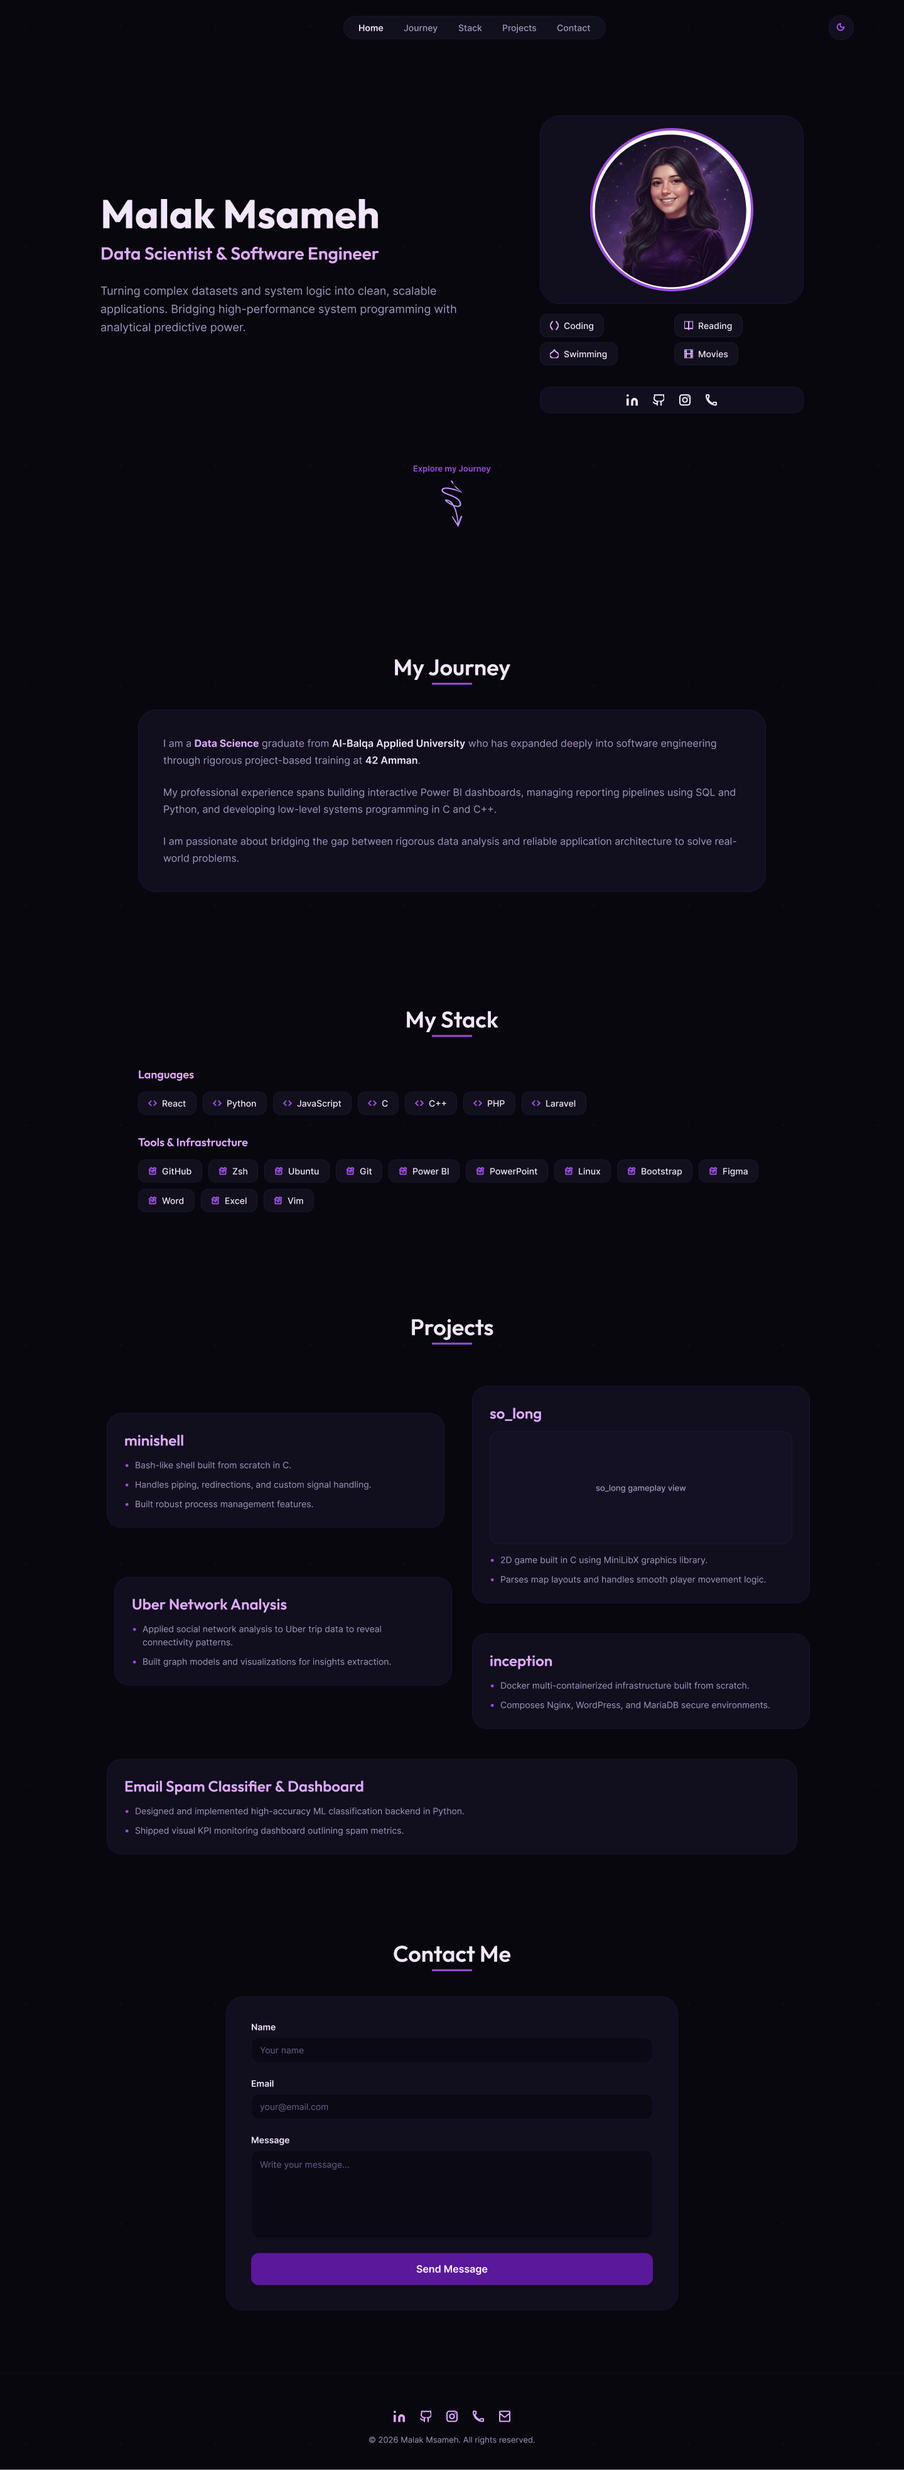
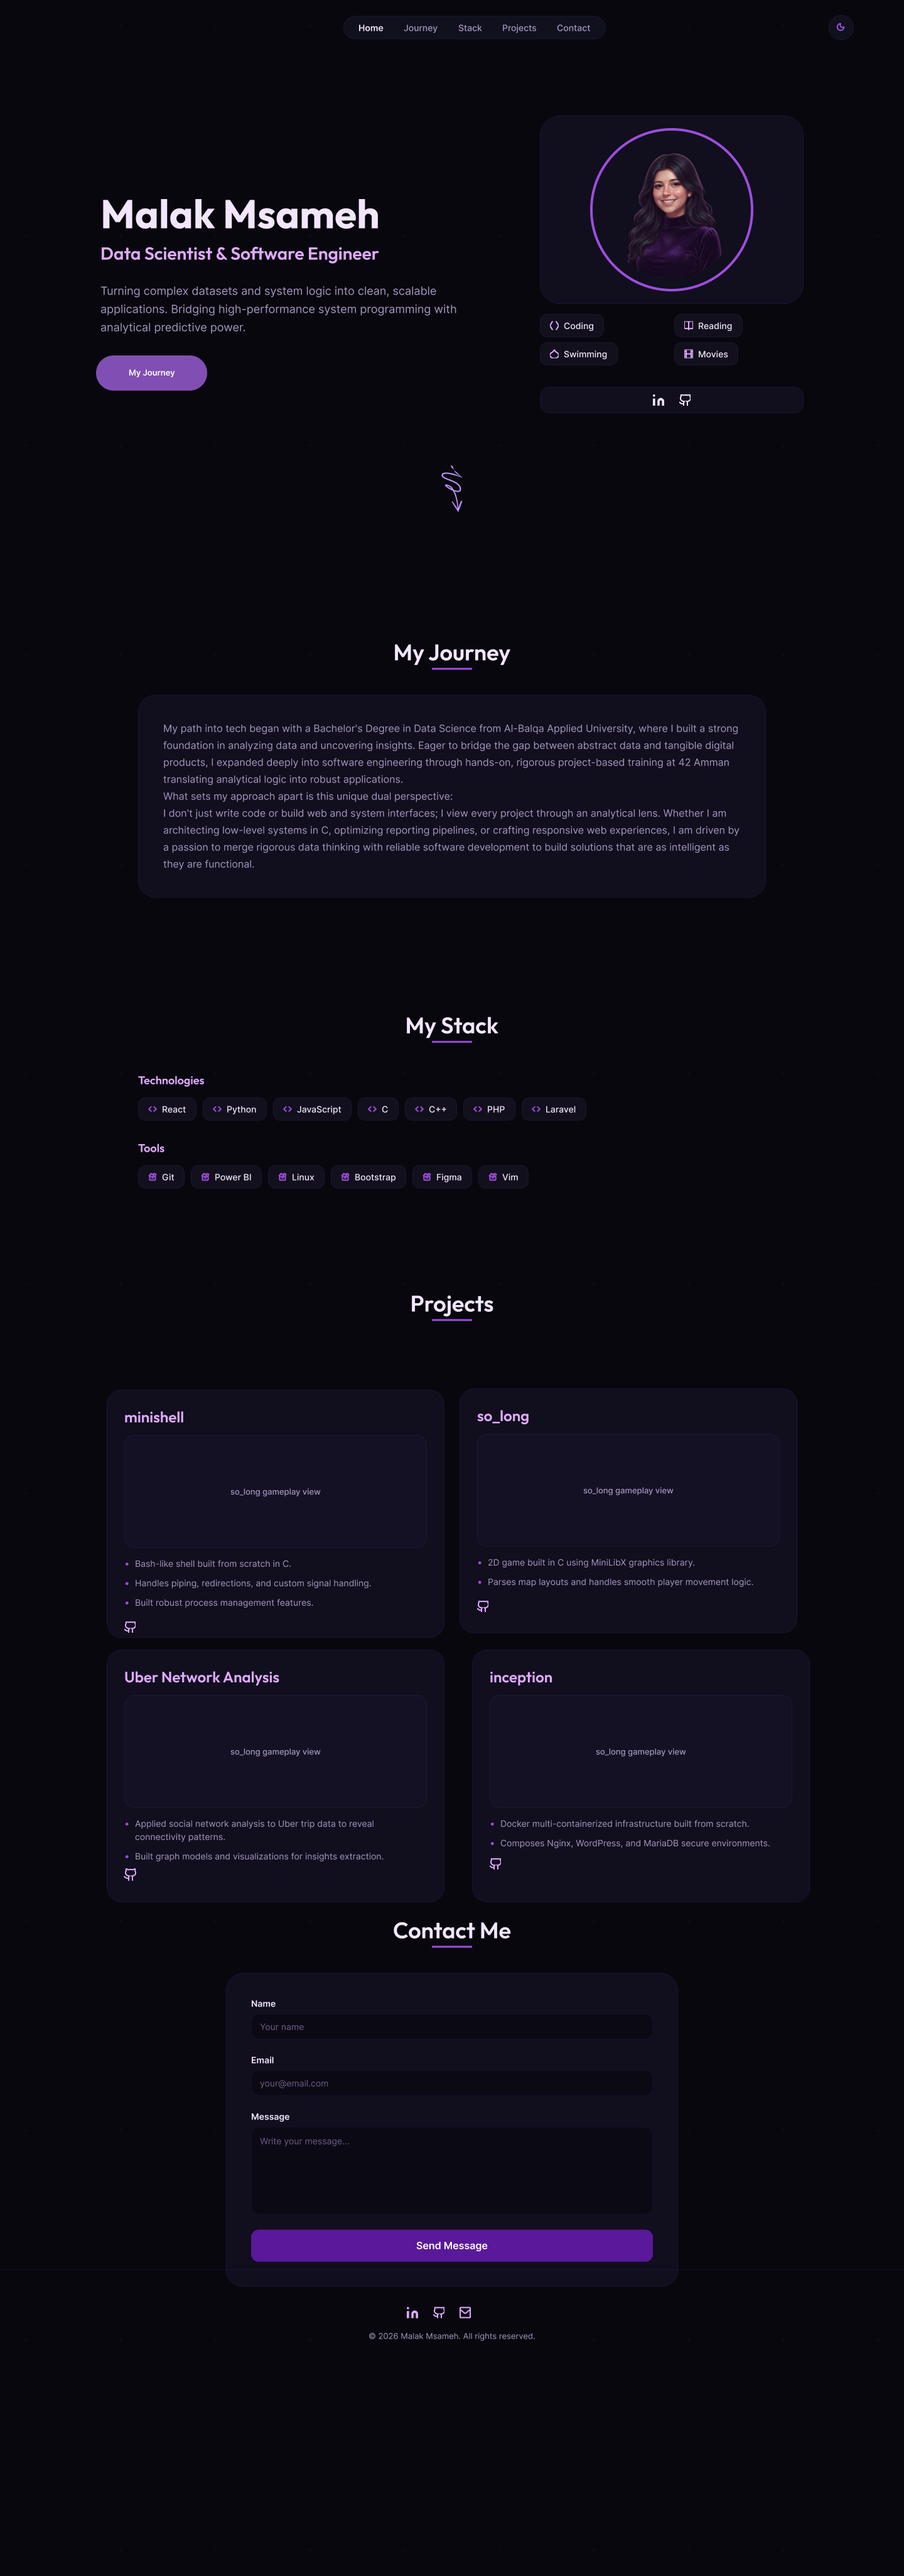
done

diff --git a/test/index.html b/test/index.html
@@ -1,0 +1,381 @@
+<!DOCTYPE html>
+<html lang="en">
+<head>
+	<meta charset="UTF-8">
+	<meta name="viewport" content="width=device-width, initial-scale=1.0">
+	<meta name="description" content="Malak Msameh — Data Scientist and Software Engineer portfolio">
+	<title>My Portfolio</title>
+
+	<link rel="stylesheet" href="style.css">
+	<link rel="stylesheet" href="https://cdnjs.cloudflare.com/ajax/libs/font-awesome/6.4.0/css/all.min.css">
+</head>
+
+<body>
+	<!-- the theme of dark and light mode and to switch between them using checkbox-->
+	<input type="checkbox" id="light-mode" class="theme-checkbox" aria-label="Toggle dark and light mode">
+	<div class="container">
+
+		<!-- header section for the nav bar and the dark / light mode -->
+		<!-- nav bar elements -->
+		<header class="sticky-navbar">
+			<nav class="navbar" aria-label="nav">
+				<a href="#home">Home</a>
+				<a href="#journey">Journey</a>
+				<a href="#stack">Stack</a>
+				<a href="#projects">Projects</a>
+				<a href="#contact">Contact</a>
+			</nav>
+
+			<!-- dark and light mode icons  -->
+			<label for="light-mode" class="light-mode-btn" title="Toggle Light/Dark Mode" aria-label="Toggle Light/Dark Mode">
+				<i class="fa-solid fa-sun sun-icon"></i>
+				<i class="fa-solid fa-moon moon-icon"></i>
+			</label>
+		</header>
+
+		<!-- main section for everything between the header amd the footer -->
+		<main>
+			<!-- Hero section or landing screen => title and avatar card-->
+			<section id="home" class="intro">
+
+				<div class="hero_sectiom">
+
+					<!-- content of the hero section -->
+					<div class="hero-content">
+						<!-- name and title and a bit of a quote -->
+						<h1 class="name">Malak Msameh</h1>
+						<h2 class="profession-title">Data Scientist &amp; Full Stack Developer</h2>
+						<p class="aqout">
+							Turning complex datasets and system logic into clean,
+							scalable applications.
+						</p>
+						<a href="#journey">
+						<button class="my-journy-button">
+							<span class="next">My Journey</span>
+						</button>
+						</a>
+					</div>
+
+
+					<!-- the avatar card section in the landing page or home page -->
+					<div class="hero_avatar">
+						<div class="avatar-container">
+
+							<img src="images/avatar.png" alt="Malak Msameh Portrait" class="avatar-img">
+
+						</div>
+
+						<!-- hobies icones after the avatar card -->
+						<div class="hobbies">
+							<span class="hobby-icon">
+
+								<i class="fa-solid fa-laptop-code"></i>
+								Coding
+							</span>
+
+							<span class="hobby-icon">
+								<i class="fa-solid fa-book"></i>
+								Reading
+							</span>
+
+							<span class="hobby-icon">
+								<i class="fa-solid fa-person-swimming"></i>
+								Swimming
+							</span>
+
+							<span class="hobby-icon">
+								<i class="fa-solid fa-film"></i>
+								Movies
+							</span>
+							
+						</div>
+
+						<!-- social media links -->
+						<div class="social-media-icons">
+							<a href="https://www.linkedin.com/in/malak-msameh/" target="_blank" aria-label="LinkedIn">
+
+								<i class="fa-brands fa-linkedin-in"></i>
+							</a>
+
+							<a href="https://github.com/malakmsameh" target="_blank" aria-label="GitHub">
+								<i class="fa-brands fa-github"></i>
+							</a>
+
+						</div>
+					</div>
+				</div>
+
+				<div class="scroll-centring">
+
+						<!-- the arrow icon and its measurements and the 
+						 xmlns tells the browser that we are using an svg-->
+						<svg
+							class="squiggly-arrow"
+							viewBox="0 0 50 80"
+							xmlns="http://www.w3.org/2000/svg"
+							aria-hidden="true"
+						>
+						<!-- this draws the actual line of the arrow  and its style-->
+							<path
+								d="M35 5 C 10 5, 5 25, 25 30 C 40 35, 10 50, 20 65 M12 55 L22 68 L32 58"
+								fill="none"
+								stroke-width="2.5"
+								stroke-linecap="round"
+								stroke-linejoin="round"
+							/>
+						</svg>
+					</a>
+				</div>
+			</section>
+
+			<!-- my Journey section-->
+			<section id="journey">
+				<h2 class="section-title">My Journey</h2>
+
+				<div class="about-me">
+					<div class="info">
+						<p>
+							My path into tech began with a Bachelor's Degree in Data Science from Al-Balqa Applied University,
+							where I built a strong foundation in analyzing data and uncovering insights.
+							Eager to bridge the gap between abstract data and tangible digital products,
+							I expanded deeply into software engineering through hands-on,
+							rigorous project-based training at 42 Amman translating analytical logic into robust applications.
+
+						</p>
+						<p>
+								What sets my approach apart is this unique dual perspective:
+								<br>I don't just write code or build web and system interfaces;
+								I view every project through an analytical lens.
+								Whether I am architecting low-level systems in C,
+								optimizing reporting pipelines, or crafting responsive web experiences,
+								I am driven by a passion to merge rigorous data thinking with reliable software
+								development to build solutions that are as intelligent as they are functional.
+						</p>
+					</div>
+			</div>
+		</section>
+
+		<!-- my Stack section -->
+		<section id="stack">
+		<h2 class="section-title">My Stack</h2>
+
+		<div class="stack-category">
+			<h3>Technologies</h3>
+
+			<!-- all the icons for the languages -->
+			<div class="stack-badge">
+			<span class="tech-badge">
+				<i class="fa-brands fa-react">
+
+				</i>
+				React
+			</span>
+			<span class="tech-badge">
+				<i class="fa-brands fa-python">
+
+				</i>
+				Python
+			</span>
+			<span class="tech-badge">
+				<i class="fa-brands fa-js">
+
+				</i>
+				JavaScript
+			</span>
+			<span class="tech-badge">
+				<i class="fa-solid fa-code">
+
+				</i>
+				C
+			</span>
+			<span class="tech-badge">
+				<i class="fa-solid fa-code">
+
+				</i>
+				C++
+			</span>
+			<span class="tech-badge">
+				<i class="fa-brands fa-php">
+
+				</i>
+				PHP
+			</span>
+			<span class="tech-badge">
+				<i class="fa-brands fa-laravel">
+
+				</i>
+				Laravel
+			</span>
+			</div>
+		</div>
+
+		<!-- all the icons for the tools -->
+		<div class="stack-category">
+			<h3>Tools</h3>
+
+			<div class="stack-badge">
+			<span class="tech-badge">
+				<i class="fa-brands fa-git-alt">
+
+				</i>
+				Git
+			</span>
+			<span class="tech-badge">
+				<i class="fa-solid fa-chart-column">
+
+				</i>
+				Power BI
+			</span>
+			<span class="tech-badge">
+				<i class="fa-brands fa-linux">
+
+				</i>
+				Linux
+			</span>
+			<span class="tech-badge">
+				<i class="fa-brands fa-bootstrap">
+
+				</i>
+				Bootstrap
+			</span>
+			<span class="tech-badge">
+				<i class="fa-brands fa-figma">
+
+				</i>
+				Figma
+			</span>
+			<span class="tech-badge">
+				<i class="fa-solid fa-file-excel">
+
+				</i>
+				Excel
+			</span>
+			<span class="tech-badge">
+				<i class="fa-solid fa-v">
+
+				</i>
+				Vim
+			</span>
+			</div>
+		</div>
+		</section>
+
+		<!-- my Projects section-->
+		<section id="projects">
+		<h2 class="section-title">Projects</h2>
+
+		<div class="projects-grid">
+			<!-- Card 1: minishell -->
+			<article class="project-card">
+			<img src="images/minishell.png" alt="minishell image" class="project-img">
+			<h3>minishell</h3>
+			<ul>
+				<li>team project.</li>
+				<li>Bash-like shell built from scratch.</li>
+				<li>Imitates bash.</li>
+				<li>Handles piping, redirections, and heredoc and its signals, and custom signal handling.</li>
+				<li>Built robust process management features.</li>
+			</ul>
+			<a href="https://github.com/malakmsameh/minishell" target="_blank" aria-label="GitHub" >
+
+					<i class="fa-brands fa-github github-project"></i>
+			</a>
+			</article>
+
+			<!-- Card 2: so_long -->
+
+			<article class="project-card">
+			<div class="so_log_video">
+				<video src="video/so_longy.mp4" autoplay muted loop playsinline controls style="width: 100%; border-radius: 8px; display: block;"></video>
+			</div>
+			<h3>so_long</h3>
+			<ul>
+				<li>2D game built in C using MiniLibX graphics library.</li>
+				<li>Parses map layouts and handles smooth player movement logic.</li>
+				<li>The project is themed around Beauty and the Beast</li>
+			</ul>
+			<a href="https://github.com/malakmsameh/so_long" target="_blank" aria-label="GitHub" >
+					<i class="fa-brands fa-github github-project"></i>
+			</a>
+			</article>
+
+
+			<!-- Card 3: Uber Network Analysis -->
+			<article class="project-card">
+			<img src="images/market.png" alt="market image" class="project-img">
+			<h3>Analyzing Job Market Data</h3>
+			<ul>
+				<li>This Power BI dashboard provides comprehensive insights into the data science job market by analyzing job postings.</li>
+				<li>The dataset is derived from publicly available data science job postings, including details such as job title, skills, experience, and company information.</li>
+			</ul>
+			<a href="https://github.com/malakmsameh/Analyzing-Job-Market-Data-in-Power-BI" target="_blank" aria-label="GitHub" >
+					<i class="fa-brands fa-github github-project"></i>
+			</a>
+			</article>
+
+			<!-- Card 4: Inception -->
+			<article class="project-card">
+			<img src="images/churn.png" alt="churn image" class="project-img">
+			<h3>Customer Churn Analysis</h3>
+			<ul>
+				<li>This project focuses on analyzing customer churn behavior for a telecom company. </li>
+				<li> It identifies key factors that influence customer retention and provides actionable insights to reduce churn rates.</li>
+				<li>Top reasons for churn, High-risk customer profiles ,Service features most associated with churn.</li>
+			</ul>
+			<a href="https://github.com/malakmsameh/Customer-Churn-Analysis-in-Power-BI" target="_blank" aria-label="GitHub" >
+					<i class="fa-brands fa-github github-project"></i>
+			</a>
+			</article>
+		</div>
+		</section>
+
+		<!-- Contact me section-->
+		<section id="contact" class="contact-section">
+			<h2 class="section-title">Get In Touch</h2>
+
+			<form class="contact-form" action="#">
+				<label for="name">
+					Name
+				<input type="text" name="name" placeholder="Your name" required>
+				</label>
+
+				<label for="email">
+					Email
+				<input type="email" name="email" placeholder="your@email.com" required >
+				</label>
+
+				<label for="message">
+					Message
+				<textarea name="message" placeholder="Write your message..." required >
+
+				</textarea>
+				</label>
+
+				<button type="submit">Send Message</button>
+			</form>
+		</section>
+	</main>
+
+		<!-- Footer -->
+		<footer class="footer">
+			<div class="footer-social-media-icons">
+				<a href="https://www.linkedin.com/in/malak-msameh/" target="_blank" aria-label="LinkedIn" >
+					<i class="fa-brands fa-linkedin-in"></i>
+				</a>
+
+				<a href="https://github.com/malakmsameh" target="_blank" aria-label="GitHub" >
+					<i class="fa-brands fa-github"></i>
+				</a>
+
+				<a href="mailto:malak.musameh31@gmail.com" aria-label="Email" >
+					<i class="fa-solid fa-envelope"></i>
+				</a>
+			</div>
+
+			<!-- copy rights -->
+			<p>&copy; 2026 Malak Msameh. All rights reserved.</p>
+		</footer>
+
+	</div>
+</body>
+</html>
